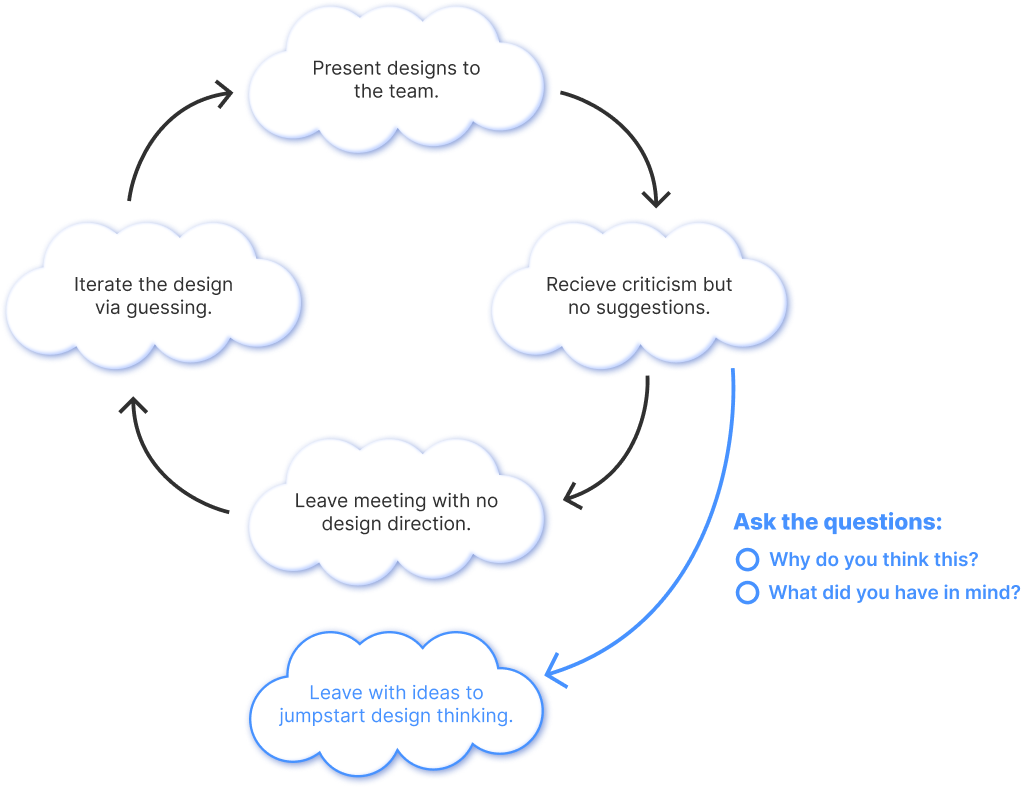
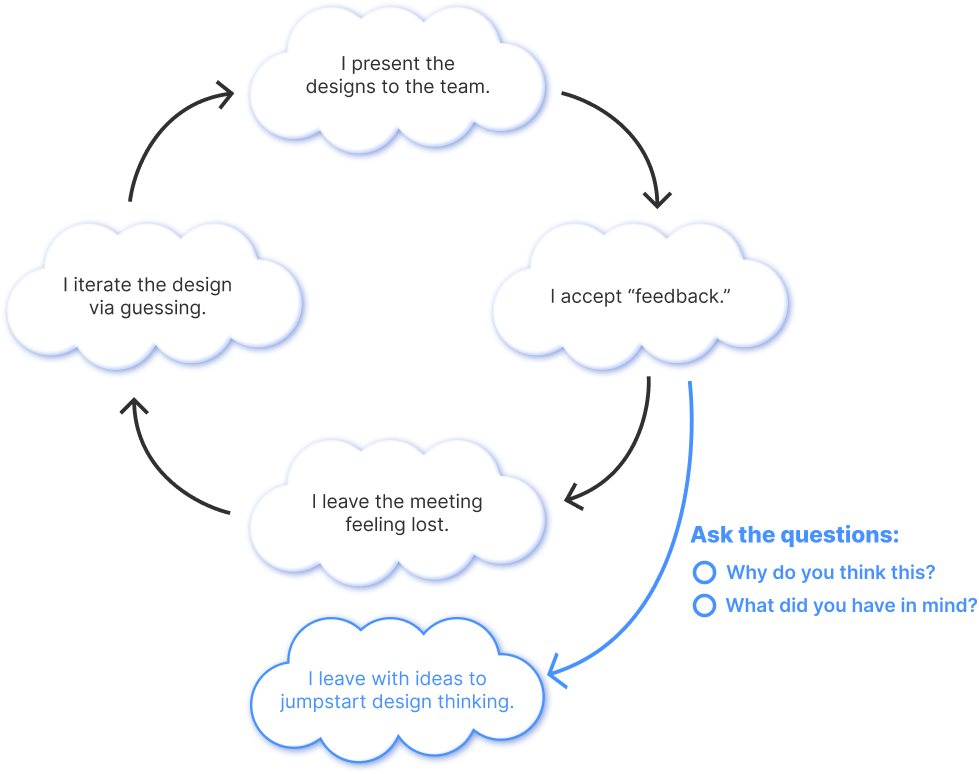
10/8 edits

diff --git a/amotions.html b/amotions.html
@@ -134,7 +134,7 @@
                 <h2>Take-Home Assignment</h2>
                 <h1>I had the responsibility of designing the practice flow due to the quality of my redesign of the blueprint.</h1>
                 <p>
-                    My take-home assignment was to redesign the practice home screen of the dashboard webapp. Even though I asked the founder several questions regarding the functionalities and expectations, I knew I didn’t have all the data I needed so I focused on the UI only.
+                    My take-home assignment was to redesign the practice home screen of the dashboard webapp. Even though I asked the founder several questions regarding the functionalities and expectations, I knew I didn’t have all the data I needed (stakeholder expectations and MVP requirements) so I focused on the UI only.
                 </p>
                 <img src="./img/amotions/takeHome.png" class="portImg"/>
             </div>
@@ -180,7 +180,7 @@
                     <li>- Version 3: “This screen is just so busy”</li>
                 </ul>
                 <img src="./img/amotions/pracHomeVersions.png" class="portImg spaceBelow"/>
-                <h1>The type of feedback I was getting from the team was the cause of the challenge.</h1>
+                <h1>The cause of the challenge was... myself. I didn't pay attention to the types of feedback I was getting.</h1>
                 <p>
                     Prior to designing, I stated to the team that I welcomed feedback on my designs so I could iterate. Yet, I gave no thought to what I meant by feedback.
                 </p>
@@ -191,12 +191,12 @@
             </div>
             <div class="sec" id="actions">
                 <h2>My Actions</h2>
-                <h1>The deadline was arriving fast. I first tackled my communcation during feedback sessions.</h1>
+                <h1>The deadline was arriving fast. I first tackled my communcation problems during feedback sessions.</h1>
                 <p>
                     It was the first week of July 2022. I had about 3 weeks to get the team’s approval for the mockups in the practice userflow, so the developers can start developing the product.
                 </p>
                 <p>
-                    I started by telling my team that the feedback I’m getting is not helping me. In the following feedback sessions, I spoke up when I didn’t know EXACTLY what my teammates were trying to articulate. By doing that, I had gotten myself out of the cycle!
+                    I told my team that the team feedback wasn't what I had in mind. Thus, in the next feedback sessions, I spoke up and asked follow-up questions when I didn’t know what my teammates were trying to articulate. By doing that, I got out of the cycle!
                 </p>
                 <img src="./img/amotions/gettingOut.png" class="portImg spaceBelow"/>
                 <h1>Secondly, I addressed the lack of customer feedback by getting permission to interview people that I knew.</h1>
